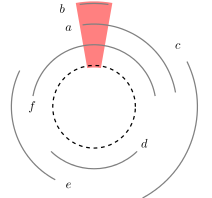
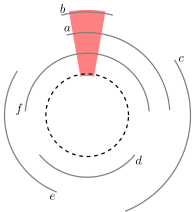
Fixed label position and scale issues

diff --git a/generate.py b/generate.py
@@ -9,7 +9,7 @@ from django.conf import settings
 settings.configure()
 from pprint import pprint
 
-dist_scale = 0.5
+dist_scale = 0.7
 max_dist = 3
 
 twopi = 2.0*math.pi
@@ -38,30 +38,33 @@ def coord_template(num, total):
 	return latex_template.render(c)
 
 def arc_template(name, start, end, total, dist):
-	offset = 15/dist_scale
-	v_sin = round(float(dist)*math.sin(twopi*start/total - (twopi*offset)/360),5)
-	v_cos = round(float(dist)*math.cos(twopi*start/total - (twopi*offset)/360),5)
+	offset = 0.9*(twopi/total)/5
+	overhang = (360.0/total)/5
+	v_sin = round(dist_scale*(dist+0.3)*math.sin(twopi*start/total - offset),5)
+	v_cos = round(dist_scale*(dist+0.3)*math.cos(twopi*start/total - offset),5)
 	latex_template = Template('\
-\\tkzDrawArc[R with nodes, delta=5](centre,{{ dist }})(p{{ end }},p{{ start }});\n\
+\\tkzDrawArc[R with nodes, delta={{ overhang }}](centre,{{ dist }})(p{{ end }},p{{ start }});\n\
 \\node (LABEL-{{ start }}-{{ end }}) at ({{ sin }}, {{ cos }}) {${{ name }}$};\n')
-	c = Context({"name": name, "cos": v_cos, "sin": v_sin, "dist": dist, "start":start,"end":end})
+	c = Context({"name": name, "cos": v_cos, "sin": v_sin, "dist": dist_scale*dist, "start":start,"end":end,"overhang":overhang})
 	return latex_template.render(c)
 
 def region_template(start, end, total):
 	dist = dist_scale*(max_dist + 0.1)
 	dist2 = dist_scale*(2.0 - 0.1)
-	v_sin_s1 = round(dist2*math.sin(twopi*start/total-(twopi*10)/360),5) #10deg ~=0.175rad
-	v_cos_s1 = round(dist2*math.cos(twopi*start/total-(twopi*10)/360),5) #10deg ~=0.175rad
-	v_sin_e1 = round(dist2*math.sin(twopi*end/total+(twopi*10)/360),5) #10deg ~=0.175rad
-	v_cos_e1 = round(dist2*math.cos(twopi*end/total+(twopi*10)/360),5) #10deg ~=0.175rad
-	v_sin_s2 = round(dist*math.sin(twopi*start/total-(twopi*10)/360),5) #10deg ~=0.175rad
-	v_cos_s2 = round(dist*math.cos(twopi*start/total-(twopi*10)/360),5) #10deg ~=0.175rad
+	overhang_deg = (360.0/total)/5
+	overhang_rad = twopi*overhang_deg/360
+	v_sin_s1 = round(dist2*math.sin(twopi*start/total-overhang_rad),5) #10deg ~=0.175rad
+	v_cos_s1 = round(dist2*math.cos(twopi*start/total-overhang_rad),5) #10deg ~=0.175rad
+	v_sin_e1 = round(dist2*math.sin(twopi*end/total+overhang_rad),5) #10deg ~=0.175rad
+	v_cos_e1 = round(dist2*math.cos(twopi*end/total+overhang_rad),5) #10deg ~=0.175rad
+	v_sin_s2 = round(dist*math.sin(twopi*start/total-overhang_rad),5) #10deg ~=0.175rad
+	v_cos_s2 = round(dist*math.cos(twopi*start/total-overhang_rad),5) #10deg ~=0.175rad
 	latex_template = Template('\\fill[red!50]\
 ( {{ sins1 }} , {{ coss1 }}) -- ( {{ sins2 }} , {{ coss2 }})\
-arc[end angle={-{{ end }}*360/ {{ total }}+90-10}, start angle={-{{ start }}*360/ {{ total }}+90+10},radius={{ dist }}] -- \
+arc[end angle={-{{ end }}*360/ {{ total }}+90-{{ overhang }}}, start angle={-{{ start }}*360/ {{ total }}+90+ {{ overhang }}},radius={{ dist }}] -- \
 ({{ sine1 }}, {{ cose1 }})\
-arc[end angle={-{{ start }}*360/ {{ total }}+90+10}, start angle={-{{ end }}*360/ {{ total }}+90-10},radius={{ dist2 }}] ;')
-	c = Context({"sins1": v_sin_s1, "coss1": v_cos_s1, "sins2": v_sin_s2, "coss2": v_cos_s2, "end":end,"total":total,"start":start,"dist":dist,"sine1":v_sin_e1,"cose1":v_cos_e1,"dist2":dist2})
+arc[end angle={-{{ start }}*360/ {{ total }}+90+ {{ overhang }}}, start angle={-{{ end }}*360/ {{ total }}+90- {{ overhang }}},radius={{ dist2 }}] ;')
+	c = Context({"sins1": v_sin_s1, "coss1": v_cos_s1, "sins2": v_sin_s2, "coss2": v_cos_s2, "end":end,"total":total,"start":start,"dist":dist,"sine1":v_sin_e1,"cose1":v_cos_e1,"dist2":dist2,"overhang":overhang_deg})
 	return latex_template.render(c)
 
 
@@ -72,7 +75,7 @@ def helper(d, dists_done, arcs, clique_num):
 		while (dist in dists_done):
 			dist += 1
 		max_dist = max(max_dist, dist)
-		arcs += arc_template(d["label"], d["start"], d["end"], clique_num, dist_scale*dist)
+		arcs += arc_template(d["label"], d["start"], d["end"], clique_num, dist)
 		d["dist"] = dist
 		dists_done.add(dist)
 	else:
@@ -138,8 +141,8 @@ def main():
 		# correct to get clique count
 		clique_num += 1
 
-		dist_scale /= 3
-		dist_scale *= clique_num
+		#dist_scale /= 3
+		#dist_scale *= clique_num
 
 		coords = ''
 		arcs = ''
@@ -190,7 +193,7 @@ def main():
 					else:
 						extra += region_template(arcb["start"], min(arca["end"],arcb["end"]), clique_num)
 
-		c = Context({"coords":coords,"arcs":arcs,"extra":extra,"circle": dist_scale*2,"scale":0.7 })
+		c = Context({"coords":coords,"arcs":arcs,"extra":extra,"circle": 1.0/dist_scale,"scale":0.8 })
 		print latex_template.render(c)
 
 
